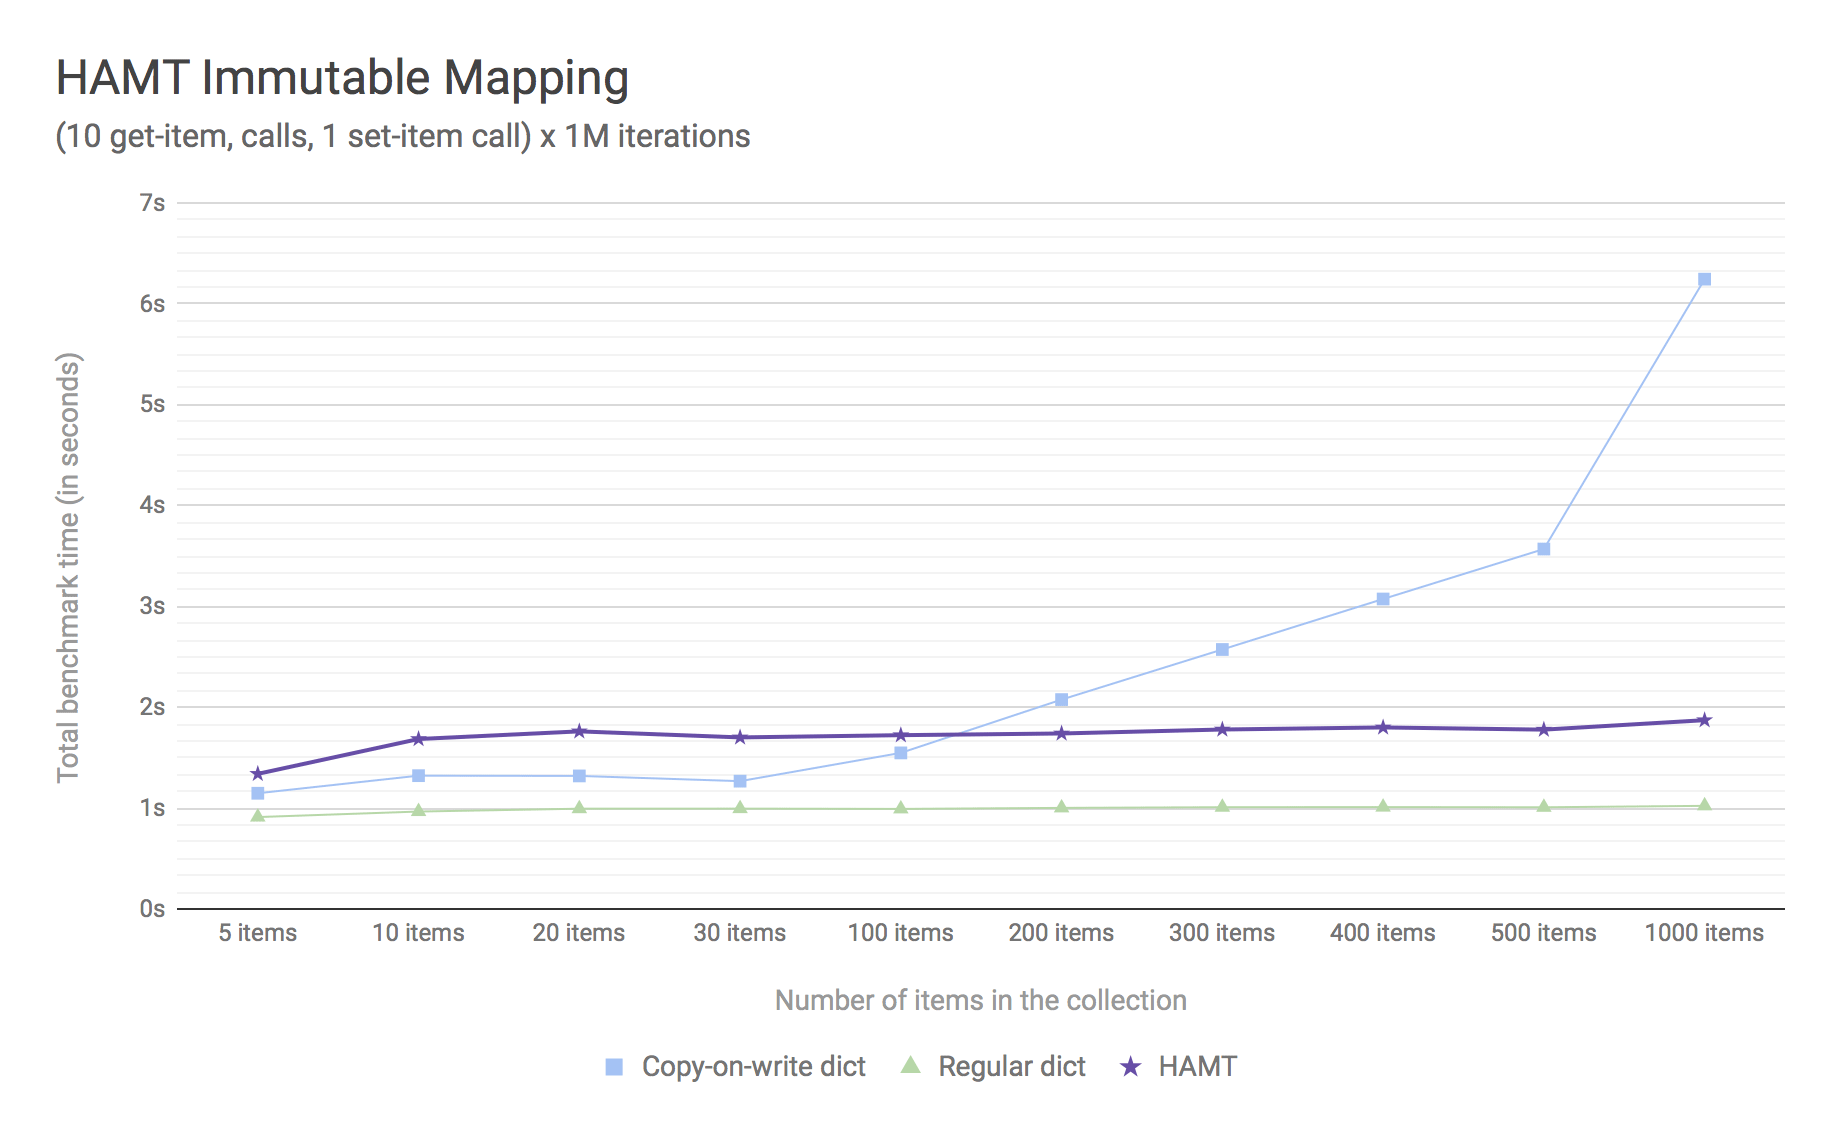
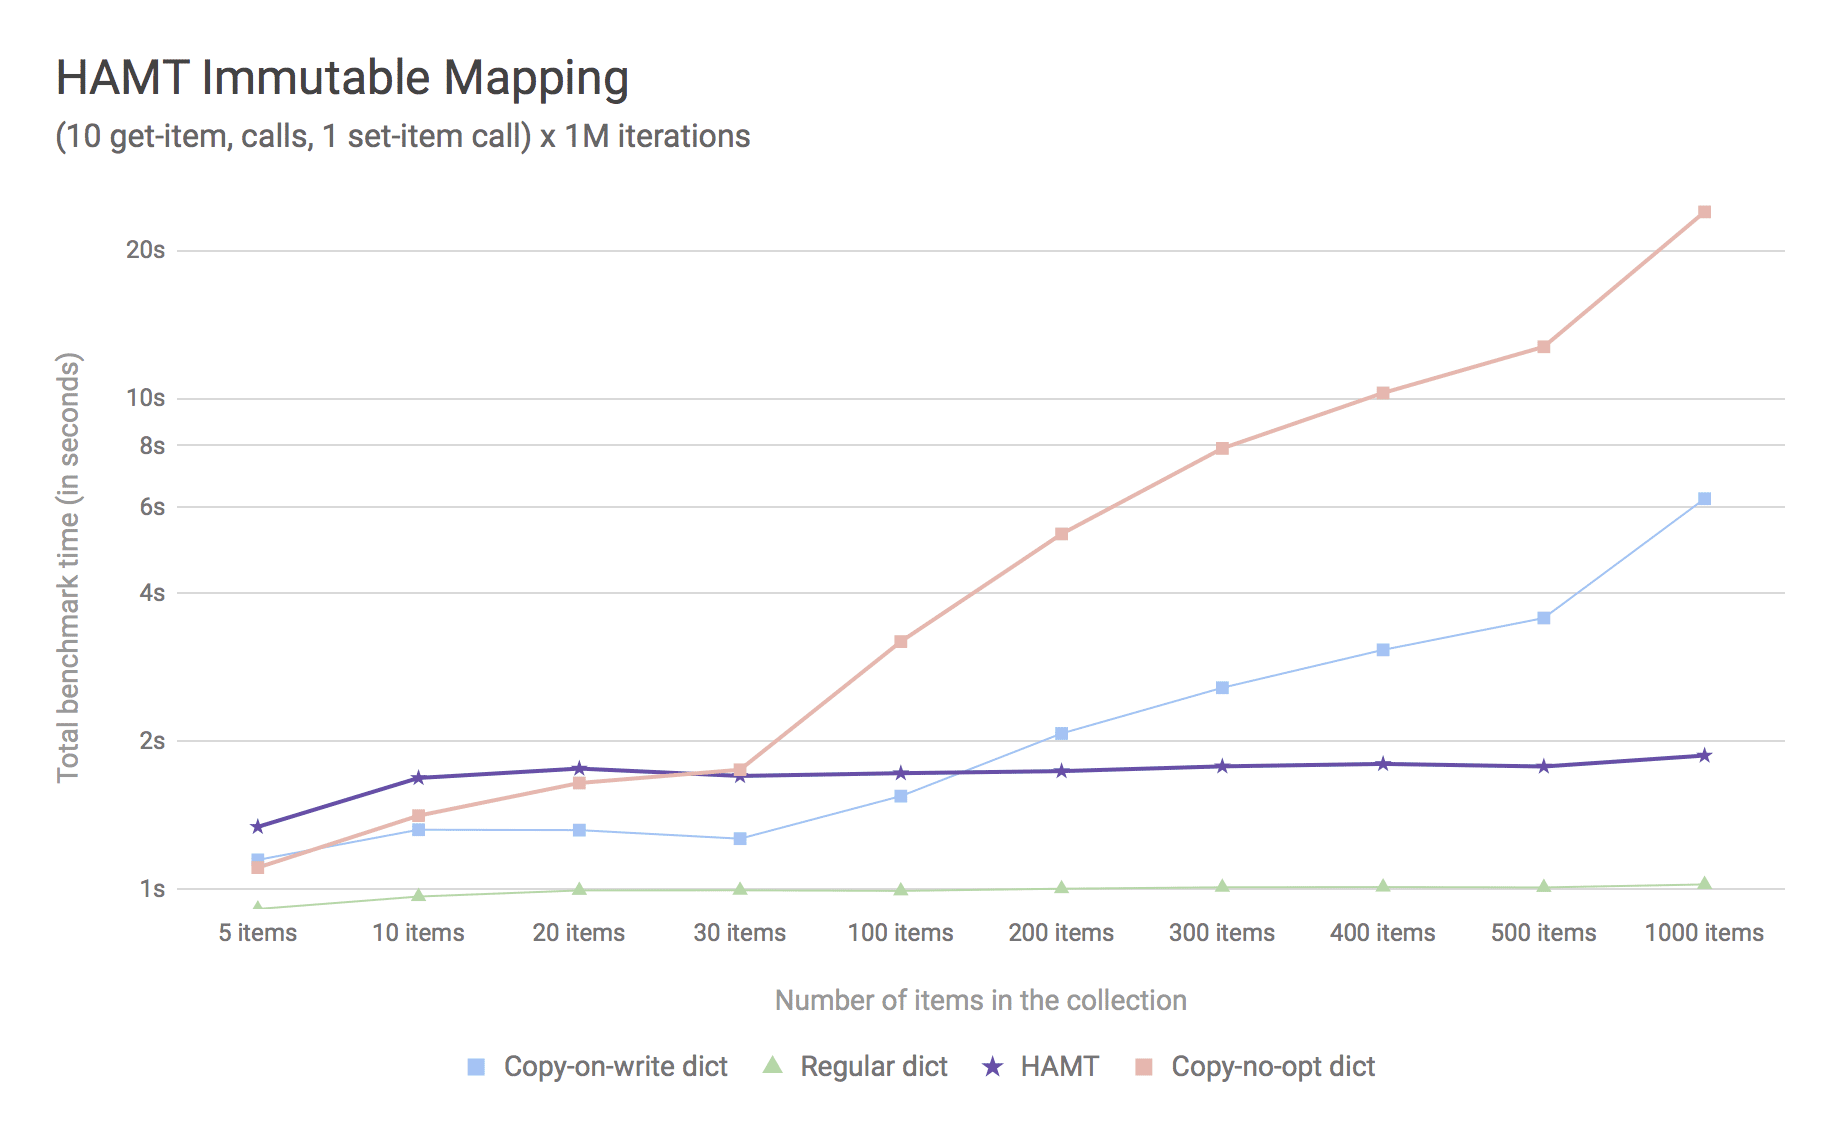
pep-550: Some rewording in the HAMT Performance section

diff --git a/pep-0550.rst b/pep-0550.rst
@@ -1096,10 +1096,14 @@ This proposal preserves 100% backwards compatibility.
 Appendix: HAMT Performance
 ==========================
 
-First, while investigating possibilities of how to implement an
-immutable mapping in CPython, we were able to improve the efficiency
-of ``dict.copy()`` up to 5 times: [4]_.  All benchmarks in this
-section were run against the optimized dict.
+While investigating possibilities of how to implement an immutable
+mapping in CPython, we were able to improve the efficiency
+of ``dict.copy()`` up to 5 times: [4]_.  One caveat is that the
+improved ``dict.copy()`` does not resize the dict, which is a
+necessary thing to do when items get deleted from the dict.
+Which means that we can make ``dict.copy()`` faster for only dicts
+that don't need to be resized, and the ones that do, will use
+a slower version.
 
 To assess if HAMT can be used for Execution Context, we implemented
 it in CPython [7]_.
@@ -1110,9 +1114,17 @@ it in CPython [7]_.
 
    Figure 1.  Benchmark code can be found here: [9]_.
 
-Figure 1 shows that HAMT indeed displays O(1) performance for all
-benchmarked dictionary sizes.  For dictionaries with less than 100
-items, HAMT is a bit slower than Python dict/shallow copy.
+The chart illustrates the following:
+
+* HAMT displays near O(1) performance for all benchmarked
+  dictionary sizes.
+
+* If we can use the optimized ``dict.copy()`` implementation ([4]_),
+  the performance of immutable mapping implemented with Python
+  ``dict`` is good up until 100 items.
+
+* A dict with an unoptimized ``dict.copy()`` becomes very slow
+  around 100 items.
 
 .. figure:: pep-0550-lookup_hamt.png
    :align: center
@@ -1127,18 +1139,14 @@ considering how well Python dicts are optimized.
 
 Note, that according to [8]_, HAMT design can be further improved.
 
-There is a limitation of Python ``dict`` design which makes HAMT
-the preferred choice for immutable mapping implementation:
-dicts need to be resized periodically, and resize is expensive.
-The ``dict.copy()`` optimization we were  able to do (see [4]_) will
-only work for dicts that had no deleted items.  Dicts that had
-deleted items need to be resized during ``copy()``, which makes it
-much slower.
+The bottom line is that it is possible to imagine a scenario when
+an application has more than 100 items in the Execution Context, in
+which case the dict-backed implementation of an immutable mapping
+becomes a subpar choice.
 
-Because adding and deleting keys from LogicalContext is a very common
-operation, we would not be able to always use the optimized
-``dict.copy()`` for LogicalContext, frequently resorting to use the
-slower version of it.
+HAMT on the other hand guarantees that its ``set()``, ``get()``,
+and ``merge()`` operations will execute in O(log\ :sub:`32`\ ) time,
+which means it is a more future proof solution.
 
 
 Acknowledgments
